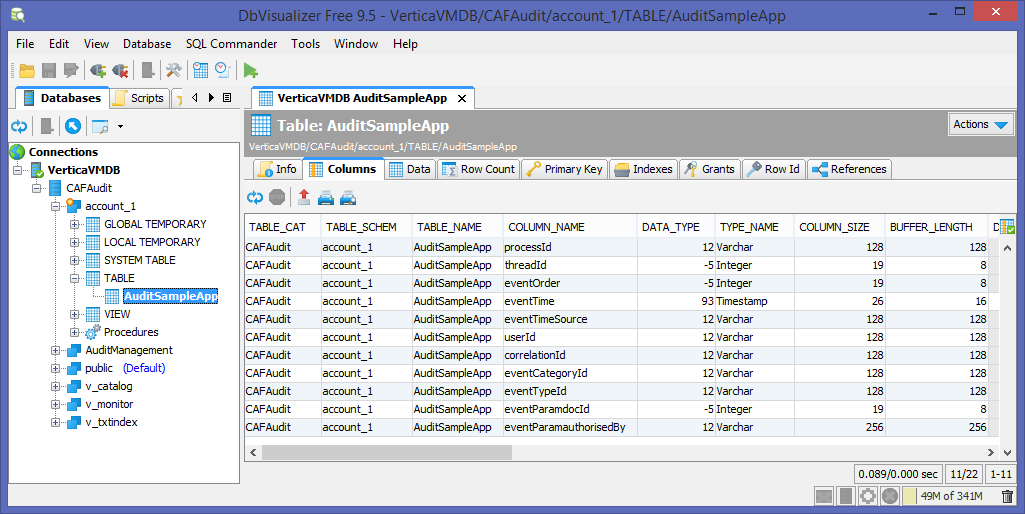
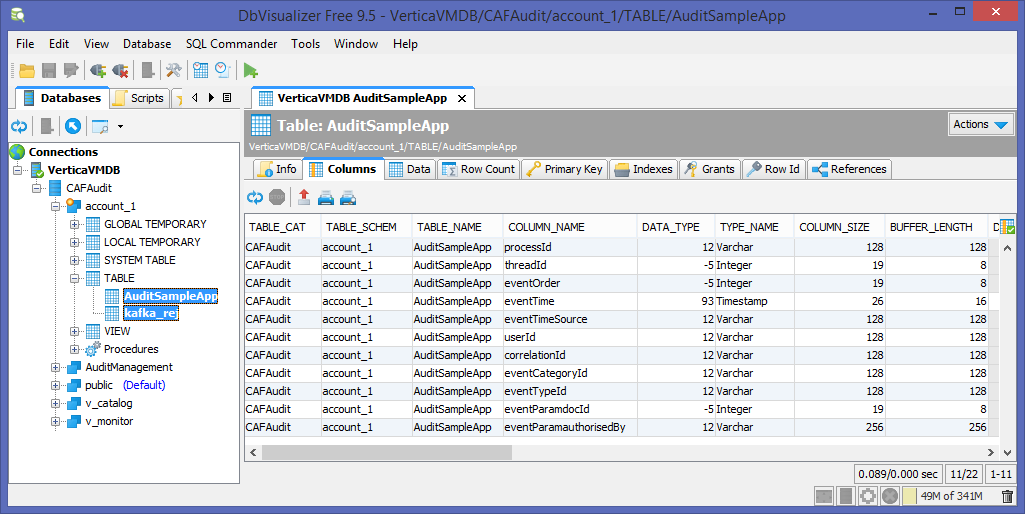
Committed screenshots with kafka_rej and SampleApp table columns. Updated Architecture document with rejected audit event data table.

Changed region(s): [[0.0312, 0.5914, 0.1873, 0.8405]]

diff --git a/docs/en-us/Architecture.md b/docs/en-us/Architecture.md
@@ -110,8 +110,12 @@ Registering a tenant with the Audit Management Web Service /tenants endpoint cre
 
 The above figure shows a row for the registered tenant; `tenantId` with an associated application's `applicationId`. The figure also shows the new tenant schema under `CAFAudit`.
 
-Registering a new tenant creates a new schema under the `CAFAudit` database for the tenant called `account_<tenantId>` where audit event data for the tenant's applications will be held.
+Registering a new tenant creates a new schema under the `CAFAudit` database for the tenant called `account_<tenantId>` where audit event data for the tenant's applications will be held. Audit Management will also create a `kafka_rej` table for holding the tenant's rejected audit events.
 
 ![CAF Audit Account 1 Sample App Table Columns](images/account_1AuditSampleAppColumns.png)
 
 The above figure shows an `account_1` schema with an `AuditSampleApp` table and the columns for audit event data for the application.
+
+![CAF Audit Account 1 Kafka Reject Table Columns](images/account_1RejectTable.png)
+
+The above figure shows the `account_1` schema with a `kafka_rej` table and columns for rejected audit event data.
